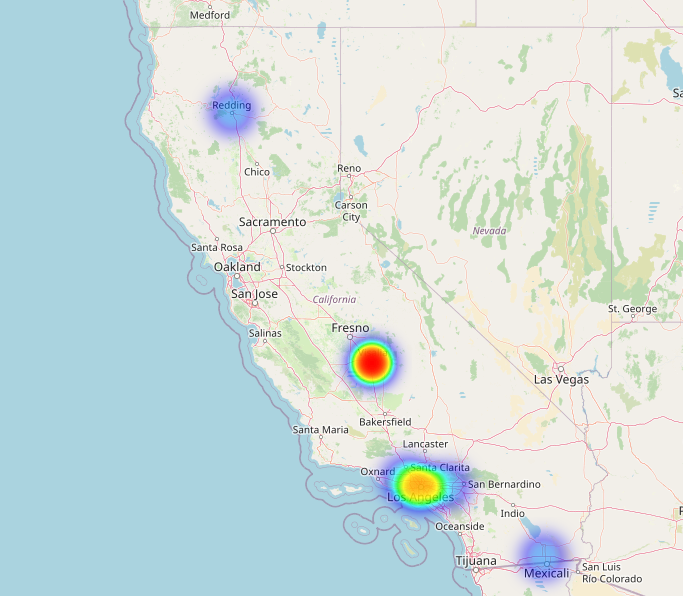
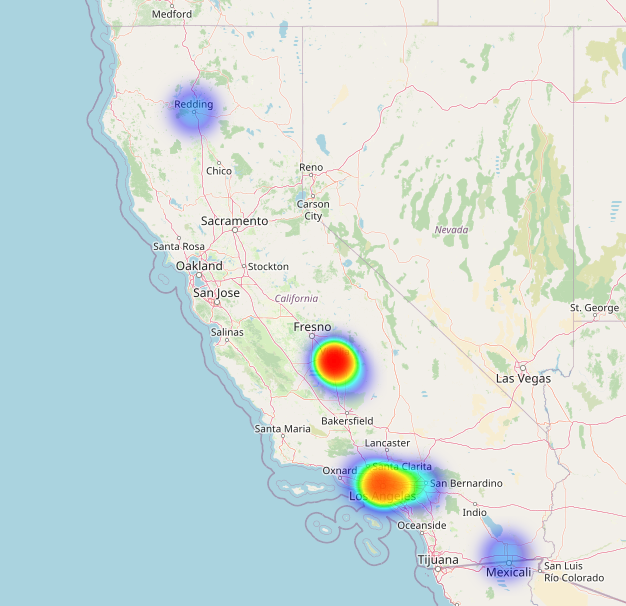
updated deer/gl

diff --git a/mapo/deer map.html b/mapo/deer map.html
@@ -25,7 +25,7 @@
             <meta name="viewport" content="width=device-width,
                 initial-scale=1.0, maximum-scale=1.0, user-scalable=no" />
             <style>
-                #map_342b408cb0f031499b0daf39c3614fd0 {
+                #map_3eda3888ad84171f5716e05ca47862dd {
                     position: relative;
                     width: 100.0%;
                     height: 100.0%;
@@ -40,16 +40,16 @@
 <body>
     
     
-            <div class="folium-map" id="map_342b408cb0f031499b0daf39c3614fd0" ></div>
+            <div class="folium-map" id="map_3eda3888ad84171f5716e05ca47862dd" ></div>
         
 </body>
 <script>
     
     
-            var map_342b408cb0f031499b0daf39c3614fd0 = L.map(
-                "map_342b408cb0f031499b0daf39c3614fd0",
+            var map_3eda3888ad84171f5716e05ca47862dd = L.map(
+                "map_3eda3888ad84171f5716e05ca47862dd",
                 {
-                    center: [35.34892804818182, -118.74826264545455],
+                    center: [35.13996087, -118.56186001764706],
                     crs: L.CRS.EPSG3857,
                     ...{
   "zoom": 10,
@@ -64,7 +64,7 @@
 
         
     
-            var tile_layer_2096b60b68f4105aa275def50d86d749 = L.tileLayer(
+            var tile_layer_21df5a5b941f0e85b91529404076b5b4 = L.tileLayer(
                 "https://tile.openstreetmap.org/{z}/{x}/{y}.png",
                 {
   "minZoom": 0,
@@ -81,11 +81,11 @@
             );
         
     
-            tile_layer_2096b60b68f4105aa275def50d86d749.addTo(map_342b408cb0f031499b0daf39c3614fd0);
+            tile_layer_21df5a5b941f0e85b91529404076b5b4.addTo(map_3eda3888ad84171f5716e05ca47862dd);
         
     
-            var heat_map_2a5fd6bc1f38b382c65082c59be57292 = L.heatLayer(
-                [[34.06591016, -118.2393057], [36.31004201, -119.3137026], [36.31004201, -119.3137026], [36.31004201, -119.3137026], [40.59833409, -122.3850359], [34.06591016, -118.2393057], [34.06410276, -117.6505138], [33.95638318, -118.2915036], [32.76411897, -115.5348784], [34.20109488, -118.6068408], [36.1922283, -119.3423974]],
+            var heat_map_b7a588674885dd273352173d952fd8cd = L.heatLayer(
+                [[34.06591016, -118.2393057], [36.31004201, -119.3137026], [36.31004201, -119.3137026], [36.31004201, -119.3137026], [40.59833409, -122.3850359], [34.06591016, -118.2393057], [34.06410276, -117.6505138], [33.95638318, -118.2915036], [32.76411897, -115.5348784], [34.20109488, -118.6068408], [36.1922283, -119.3423974], [34.06591016, -118.2393057], [34.135963, -117.2618105], [34.06877733, -118.036235], [36.31004201, -119.3137026], [36.04387047, -119.0166028], [33.91656329, -117.4530746]],
                 {
   "minOpacity": 0.5,
   "maxZoom": 18,
@@ -95,7 +95,7 @@
             );
         
     
-            heat_map_2a5fd6bc1f38b382c65082c59be57292.addTo(map_342b408cb0f031499b0daf39c3614fd0);
+            heat_map_b7a588674885dd273352173d952fd8cd.addTo(map_3eda3888ad84171f5716e05ca47862dd);
         
 </script>
 </html>
